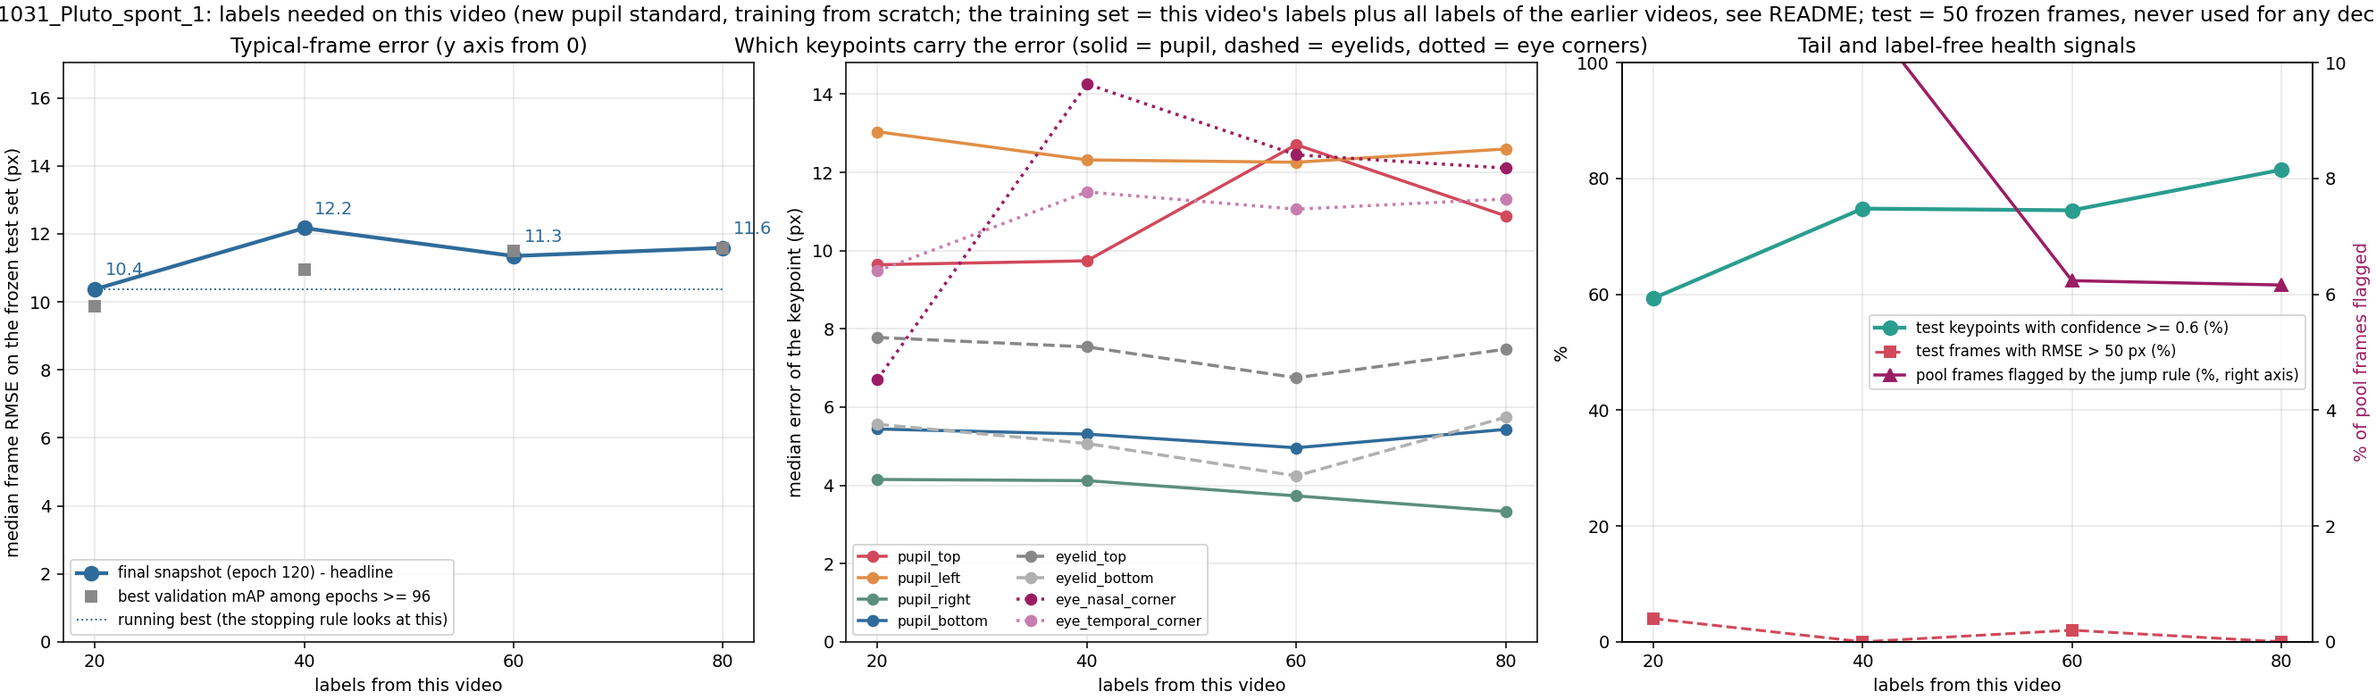
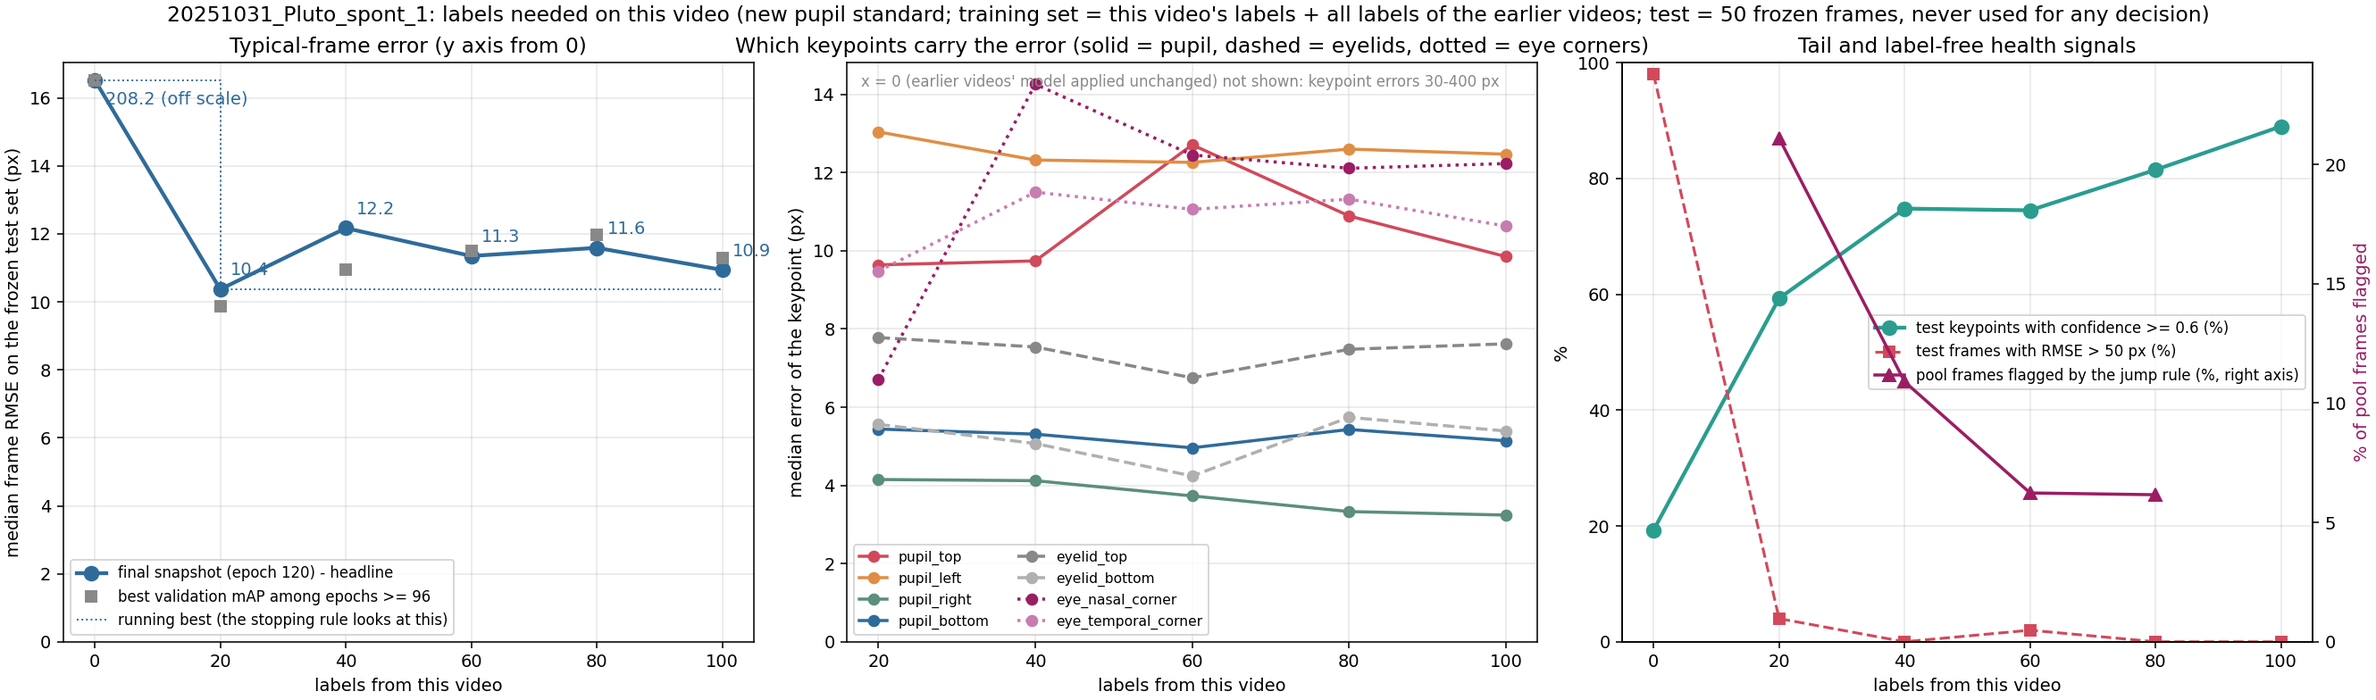
Video 2 (Pluto): full 5-point curve with the x = 0 point; secondary column recomputed on the corrected val20
Step 5 (100 Pluto labels + 100 video-1 labels, shuffle 225 after batch05 was
corrected) = 10.94 px, p90 19.3, 0% failed frames, 89% confident keypoints.
Final-snapshot series 208.2 (0 labels: video-1 model unchanged) / 10.37 /
12.17 / 11.35 / 11.59 / 10.94 px; plateau rule -> 20 labels (unchanged).

Secondary column (best validation mAP among epochs >= 96) recomputed for steps
1-5 with the corrected val20 (recompute_mAPlate.py, values in
val_mAP_by_snapshot.csv): same snapshot as before for steps 1-3 and 5; step 4
now selects epoch 100 (11.98 px instead of 11.59). Headline rows untouched.

New: score_prior_model.py (the x = 0 point); plot_scale_curve.py draws the 0
point clipped with its value, keypoint panel starts at 20 labels, right axis
of the health panel auto-scales; scale_step.evaluate clears earlier
prediction files of the same label (a re-run picked up a stale file).
Video 3 = pluton2 (second recording of mouse B) folder started.

diff --git a/new_pupil_top_video_scaling/scripts/recompute_mAPlate.py b/new_pupil_top_video_scaling/scripts/recompute_mAPlate.py
@@ -1,0 +1,84 @@
+#!/usr/bin/env python3
+"""Recompute the secondary "_mAPlate" rows of a video's scale curve after its val20 labels were corrected.
+
+    python recompute_mAPlate.py --unit 20251031_Pluto_spont_1 --prior first5minvedio:5 --steps 1:211 2:212 3:213 4:214 5:225
+
+Nothing is retrained. For every step the DeepLabCut project is staged exactly as scale_step.py staged it for that
+step (batches 01..N of this video + val20 + the earlier videos), so the merged table has the same row order as
+the shuffle's Documentation pickle; the val20 rows now carry the corrected labels. Then DeepLabCut's own
+evaluate_network scores the snapshots after the first LR drop (epochs >= MILESTONES[0]) on the validation split,
+the snapshot with the highest validation mAP is chosen and scored on the frozen test set with scale_step.evaluate
+(same metric code, label x0N0_stepNN_mAPlate). The headline "_final" rows are not touched.
+Writes <unit>/results/val_mAP_by_snapshot.csv with every validation mAP that was computed."""
+import argparse
+import pickle
+import sys
+from pathlib import Path
+
+import pandas as pd
+
+sys.path.insert(0, str(Path(__file__).resolve().parent))
+import scale_step as ss  # noqa: E402
+
+ap = argparse.ArgumentParser()
+ap.add_argument("--unit", required=True)
+ap.add_argument("--prior", nargs="*", default=[], help="earlier videos as name:last_batch (same as scale_step.py)")
+ap.add_argument("--steps", nargs="+", required=True, help="step:shuffle pairs")
+ap.add_argument("--seed", type=int, default=42)
+a = ap.parse_args()
+import deeplabcut  # noqa: E402
+from deeplabcut.generate_training_dataset.trainingsetmanipulation import merge_annotateddatasets  # noqa: E402
+
+prior = [(p.split(":")[0], int(p.split(":")[1])) for p in a.prior]
+cfg = deeplabcut.auxiliaryfunctions.read_config(str(ss.CONFIG))
+tsf = ss.PROJECT / Path(deeplabcut.auxiliaryfunctions.get_training_set_folder(cfg))
+rows = []
+for spec in a.steps:
+    step, shuffle = (int(v) for v in spec.split(":"))
+    # 1) stage the project as it was for this step, with the CURRENT (corrected) label files
+    train_names = {}
+    for u, last in prior:
+        train_names[u], _ = ss.stage(u, last, with_val=False)
+    train_names[a.unit], val_names = ss.stage(a.unit, step, with_val=True)
+    merged = merge_annotateddatasets(cfg, tsf)
+    keys = [(i[-2], i[-1]) if isinstance(i, tuple) else tuple(Path(str(i)).parts[-2:]) for i in merged.index]
+    n_train = sum(len(v) for v in train_names.values())
+    fraction = round(n_train / len(keys), 2)
+    tsi = ss.ensure_fraction(fraction)
+    pct = int(round(fraction * 100))
+    # 2) the shuffle's recorded split must point at exactly the val20 frames -> row order unchanged
+    doc = tsf / f"Documentation_data-{cfg['Task']}_{pct}shuffle{shuffle}.pickle"
+    with open(doc, "rb") as f:
+        meta = pickle.load(f)
+    val_idx = [int(i) for i in meta[2]]
+    got = sorted(keys[i][1] for i in val_idx)
+    assert got == sorted(val_names), f"step {step}: the recorded validation split does not match val20 ({got[:3]}...)"
+    assert len(meta[1]) == n_train, (len(meta[1]), n_train)
+    # 3) validation mAP of the late snapshots with the corrected labels
+    mdir = ss.PROJECT / "dlc-models-pytorch" / "iteration-0" / f"{ss.TASK}{ss.DATE}-trainset{pct}shuffle{shuffle}" / "train"
+    snaps = sorted(p.name for p in mdir.glob("snapshot-*.pt"))
+    find = lambda ep: next(k for k, n in enumerate(snaps) if n in (f"snapshot-{ep:03d}.pt", f"snapshot-best-{ep:03d}.pt"))
+    late = [e for e in range(10, ss.EPOCHS + 1, 10) if e >= ss.MILESTONES[0]
+            and any(n in (f"snapshot-{e:03d}.pt", f"snapshot-best-{e:03d}.pt") for n in snaps)]
+    names = [snaps[find(e)][:-3] for e in late]
+    deeplabcut.evaluate_network(str(ss.CONFIG), Shuffles=[shuffle], trainingsetindex=tsi, snapshots_to_evaluate=names,
+                                device="cpu", plotting=False)
+    ev = ss.PROJECT / "evaluation-results-pytorch" / "iteration-0" / f"{ss.TASK}{ss.DATE}-trainset{pct}shuffle{shuffle}"
+    # one "<scorer>_<snapshot>-results.csv" per snapshot; columns "Training epochs", "test mAP" (test = the validation split)
+    res = pd.concat([pd.read_csv(p) for p in ev.rglob("*-results.csv")], ignore_index=True)
+    res.columns = [c.strip() for c in res.columns]
+    maps = {}
+    for e, nm in zip(late, names):
+        sel = res[(res["Training epochs"] == e) & (res["Shuffle number"] == shuffle)]
+        maps[e] = float(sel["test mAP"].iloc[-1])
+        rows.append({"step": step, "shuffle": shuffle, "epoch": e, "snapshot": nm, "val_mAP_corrected_val20": maps[e],
+                     "val_rmse_px": float(sel["test rmse"].iloc[-1])})
+    best_ep = max(maps, key=maps.get)
+    ss.log(f"step {step} (shuffle {shuffle}): validation mAP with corrected val20 {maps} -> epoch {best_ep}")
+    # 4) score the selected snapshot on the frozen test set (same metric code as every other row)
+    n_new = len(train_names[a.unit])
+    ss.evaluate(a.unit, shuffle, tsi, f"x{n_new:03d}_step{step:02d}_mAPlate", n_new, find(best_ep),
+                f"best validation mAP among epochs >= {ss.MILESTONES[0]}", a.seed)
+out = ss.HERE / a.unit / "results" / "val_mAP_by_snapshot.csv"
+pd.DataFrame(rows).to_csv(out, index=False)
+ss.log(f"wrote {out}")

diff --git a/new_pupil_top_video_scaling/scripts/plot_scale_curve.py b/new_pupil_top_video_scaling/scripts/plot_scale_curve.py
@@ -21,20 +21,29 @@ late = d[d["label"].str.endswith("_mAPlate")].sort_values(x)
 BLUE, RED, GREEN, GRAY, PLUM = "#2F6B9A", "#D1495B", "#2A9D8F", "#888888", "#9B1D64"
 fig, axes = plt.subplots(1, 3, figsize=(19, 5.6), constrained_layout=True)
 ax = axes[0]
-ax.plot(head[x], head["median_frame_rmse_px"], "o-", color=BLUE, lw=2.2, ms=8, label="final snapshot (epoch 120) - headline")
-ax.plot(late[x], late["median_frame_rmse_px"], "s", color=GRAY, ms=6, label="best validation mAP among epochs >= 96")
-for _, r in head.iterrows():
-    ax.annotate(f"{r['median_frame_rmse_px']:.1f}", (r[x], r["median_frame_rmse_px"]), textcoords="offset points", xytext=(6, 8), color=BLUE)
-best = head["median_frame_rmse_px"].cummin()
+# y range from the steps that used labels of this video; the x = 0 point (earlier videos' model applied unchanged)
+# can be hundreds of px and is drawn clipped at the top with its value written next to it
+labeled = head[head[x] > 0]
+ytop = max(16, labeled["median_frame_rmse_px"].max() * 1.4)
+yv = head["median_frame_rmse_px"].clip(upper=ytop * 0.97)
+ax.plot(head[x], yv, "o-", color=BLUE, lw=2.2, ms=8, label="final snapshot (epoch 120) - headline")
+ax.plot(late[x], late["median_frame_rmse_px"].clip(upper=ytop * 0.97), "s", color=GRAY, ms=6, label="best validation mAP among epochs >= 96")
+for (_, r), v in zip(head.iterrows(), yv):
+    off = " (off scale)" if r["median_frame_rmse_px"] > ytop else ""
+    ax.annotate(f"{r['median_frame_rmse_px']:.1f}{off}", (r[x], v), textcoords="offset points", xytext=(6, 8 if not off else -14), color=BLUE)
+best = head["median_frame_rmse_px"].cummin().clip(upper=ytop * 0.97)
 ax.step(head[x], best, where="post", color=BLUE, lw=1, ls=":", label="running best (the stopping rule looks at this)")
-ax.set_ylim(0, max(16, head["median_frame_rmse_px"].max() * 1.4)); ax.set_xticks(head[x])
+ax.set_ylim(0, ytop); ax.set_xticks(head[x])
 ax.set_xlabel("labels from this video"); ax.set_ylabel("median frame RMSE on the frozen test set (px)")
 ax.set_title("Typical-frame error (y axis from 0)"); ax.grid(alpha=0.3); ax.legend(fontsize=8.5, loc="lower left")
 ax = axes[1]
 for bp, c, ls in (("pupil_top", RED, "-"), ("pupil_left", "#E08E45", "-"), ("pupil_right", "#5B8E7D", "-"), ("pupil_bottom", BLUE, "-"),
                   ("eyelid_top", GRAY, "--"), ("eyelid_bottom", "#B0B0B0", "--"), ("eye_nasal_corner", PLUM, ":"), ("eye_temporal_corner", "#C77DB0", ":")):
-    ax.plot(head[x], head[f"median_{bp}_px"], "o", ls=ls, color=c, lw=1.8, ms=6, label=bp)
-ax.set_ylim(0, None); ax.set_xticks(head[x]); ax.set_xlabel("labels from this video"); ax.set_ylabel("median error of the keypoint (px)")
+    ax.plot(labeled[x], labeled[f"median_{bp}_px"], "o", ls=ls, color=c, lw=1.8, ms=6, label=bp)
+if len(labeled) < len(head):      # the x = 0 point is left out here: 30-400 px for most keypoints, see README
+    ax.text(0.02, 0.98, "x = 0 (earlier videos' model applied unchanged) not shown: keypoint errors 30-400 px", transform=ax.transAxes,
+            va="top", fontsize=8.5, color=GRAY)
+ax.set_ylim(0, None); ax.set_xticks(labeled[x]); ax.set_xlabel("labels from this video"); ax.set_ylabel("median error of the keypoint (px)")
 ax.set_title("Which keypoints carry the error (solid = pupil, dashed = eyelids, dotted = eye corners)"); ax.grid(alpha=0.3); ax.legend(fontsize=8, ncol=2)
 ax = axes[2]
 ax.plot(head[x], head["frac_points_conf_ge_0.6"] * 100, "o-", color=GREEN, lw=2.2, ms=8, label="test keypoints with confidence >= 0.6 (%)")
@@ -44,13 +53,14 @@ jf = R / "jump_flagged.csv"
 if jf.exists():
     j = pd.read_csv(jf); ax2 = ax.twinx()
     ax2.plot(j["model_labels"], j["jump_flagged_pool_frames"] / j["pool_frames"] * 100, "^-", color=PLUM, lw=1.8, ms=7, label="pool frames flagged by the jump rule (%, right axis)")
-    ax2.set_ylim(0, 10); ax2.set_ylabel("% of pool frames flagged", color=PLUM)
+    jmax = float((j["jump_flagged_pool_frames"] / j["pool_frames"] * 100).max())
+    ax2.set_ylim(0, max(10, jmax * 1.15)); ax2.set_ylabel("% of pool frames flagged", color=PLUM)
     h1, l1 = ax.get_legend_handles_labels(); h2, l2 = ax2.get_legend_handles_labels(); ax.legend(h1 + h2, l1 + l2, fontsize=8.5, loc="center right")
 else:
     ax.legend(fontsize=8.5, loc="center right")
 ax.set_title("Tail and label-free health signals")
 n = int(d["n_test_frames"].iloc[0])
-fig.suptitle(f"{a.unit}: labels needed on this video (new pupil standard, training from scratch; the training set = this video's "
-             f"labels plus all labels of the earlier videos, see README; test = {n} frozen frames, never used for any decision)", fontsize=12)
+fig.suptitle(f"{a.unit}: labels needed on this video (new pupil standard; training set = this video's labels + all labels of the "
+             f"earlier videos; test = {n} frozen frames, never used for any decision)", fontsize=12)
 fig.savefig(R / "scale_curve.png", dpi=140)
 print(head[[x, "median_frame_rmse_px", "p90_frame_rmse_px", "frac_frames_rmse_gt_50px", "frac_points_conf_ge_0.6"]].to_string(index=False))

diff --git a/new_pupil_top_video_scaling/scripts/score_prior_model.py b/new_pupil_top_video_scaling/scripts/score_prior_model.py
@@ -1,0 +1,41 @@
+#!/usr/bin/env python3
+"""The x = 0 point of a video's scale curve: the model of the EARLIER video(s) applied unchanged to this video's
+frozen test set (no label of this video in training).
+
+    python score_prior_model.py --unit 20251031_Pluto_spont_1 --prior-unit first5minvedio --shuffle 115 --tsi 4
+
+Writes the rows x000_step00_final / x000_step00_mAPlate into <unit>/results/scale_curve.csv with the same metric
+code (scale_step.evaluate) and the same two snapshot rules as every other step: final snapshot (epoch 120) and
+the snapshot the prior video's own curve selected by validation mAP (read from its scale_curve.csv)."""
+import argparse
+import re
+import sys
+from pathlib import Path
+
+import pandas as pd
+
+sys.path.insert(0, str(Path(__file__).resolve().parent))
+import scale_step as ss  # noqa: E402
+
+ap = argparse.ArgumentParser()
+ap.add_argument("--unit", required=True)
+ap.add_argument("--prior-unit", required=True, help="the earlier video whose last model is applied")
+ap.add_argument("--shuffle", type=int, required=True, help="DLC shuffle of that model")
+ap.add_argument("--tsi", type=int, required=True, help="training-set index of that model")
+ap.add_argument("--seed", type=int, default=42)
+a = ap.parse_args()
+
+mdirs = list((ss.PROJECT / "dlc-models-pytorch" / "iteration-0").glob(f"*shuffle{a.shuffle}"))
+assert len(mdirs) == 1, mdirs
+snaps = sorted(p.name for p in (mdirs[0] / "train").glob("snapshot-*.pt"))
+find = lambda ep: next(k for k, n in enumerate(snaps) if n in (f"snapshot-{ep:03d}.pt", f"snapshot-best-{ep:03d}.pt"))
+
+prior = pd.read_csv(ss.HERE / a.prior_unit / "results" / "scale_curve.csv")
+last = prior[prior["label"].str.endswith("_mAPlate")].sort_values("training_frames_this_video").iloc[-1]
+ep_map = int(re.search(r"\((?:best-)?(\d+)\)", last["snapshot_rule"]).group(1))
+print(f"prior model: {mdirs[0].name}; final snapshot = epoch {ss.EPOCHS}; its validation-mAP-selected snapshot = epoch {ep_map}")
+
+ss.evaluate(a.unit, a.shuffle, a.tsi, "x000_step00_final", 0, find(ss.EPOCHS),
+            f"final snapshot; {a.prior_unit} model applied unchanged", a.seed)
+ss.evaluate(a.unit, a.shuffle, a.tsi, "x000_step00_mAPlate", 0, find(ep_map),
+            f"best validation mAP among epochs >= {ss.MILESTONES[0]} on {a.prior_unit}; model applied unchanged", a.seed)

diff --git a/new_pupil_top_video_scaling/scripts/scale_step.py b/new_pupil_top_video_scaling/scripts/scale_step.py
@@ -114,6 +114,8 @@ def evaluate(unit, shuffle, tsi, label, n_new, snapshot_index, rule, seed):
     gt = flat(human_table(test))
     out = HERE / unit / "training-data" / "eval" / label
     out.mkdir(parents=True, exist_ok=True)
+    for old in out.glob("image_predictions_*"):      # a re-run with another snapshot must not pick up the earlier file
+        old.unlink()
     deeplabcut.analyze_images(str(CONFIG), [str(test)], frame_type=".png", destfolder=str(out), shuffle=shuffle,
                               trainingsetindex=tsi, save_as_csv=True, plotting=False, pcutoff=0.0, device="cpu",
                               snapshot_index=snapshot_index)

diff --git a/new_pupil_top_video_scaling/20251031_Pluto_spont_1/results/README.md b/new_pupil_top_video_scaling/20251031_Pluto_spont_1/results/README.md
@@ -7,23 +7,43 @@ sha256 `5411047aae9258bd…`; frozen 2026-09-22 after a read-only check, never e
 Reference from the old label standard (not comparable in px): trained with 676 old-mouse labels, this video
 reached its plateau at about 80 labels.
 
-## Result (final snapshot = epoch 120, median frame RMSE over the 50 test frames)
+## Result (median frame RMSE over the 50 frozen test frames)
 
-| labels of this video | median | p90 | frames > 50 px | keypoints conf >= 0.6 | pool frames flagged by the jump rule |
-|---|---|---|---|---|---|
-| 20 | **10.37 px** | 21.6 | 4% | 59% | 12,060 (21%) |
-| 40 | 12.17 px | 20.3 | 0% | 75% | 6,229 (11%) |
-| 60 | 11.35 px | 19.7 | 2% | 74% | 3,564 (6%) |
-| 80 | 11.59 px | 19.8 | 0% | 82% | 3,521 (6%) |
+Headline = final snapshot (epoch 120). Secondary = the snapshot with the best validation mAP after the first
+learning-rate drop (epochs >= 96, i.e. 100/110/120); same two rules as video 1.
 
-Plateau rule fired at 60 labels: the running best (10.37 px at 20 labels) was not improved by the 40- and
-60-label steps -> **plateau = 20 labels** for this video when the 100 labels of video 1 are in the training set.
-The 1-px differences between steps are within the sampling noise of a 50-frame median; the tail (p90, failed
-frames, confidence) and the jump-flagged fraction kept improving up to 60-80 labels.
+| labels of this video | final snapshot | best-val-mAP snapshot | p90 (final) | frames > 50 px | keypoints conf >= 0.6 | pool frames flagged by the jump rule |
+|---|---|---|---|---|---|---|
+| 0 (video-1 model applied unchanged) | 208.2 px | 225.8 px (ep. 100) | 258 | 98% | 19% | – |
+| 20 | **10.37 px** | 9.86 (ep. 110) | 21.6 | 4% | 59% | 12,060 (21%) |
+| 40 | 12.17 px | 10.96 (ep. 110) | 20.3 | 0% | 75% | 6,229 (11%) |
+| 60 | 11.35 px | 11.50 (ep. 100) | 19.7 | 2% | 74% | 3,564 (6%) |
+| 80 | 11.59 px | 11.98 (ep. 100) | 19.8 | 0% | 82% | 3,521 (6%) |
+| 100 | 10.94 px | 11.29 (ep. 110) | 19.3 | 0% | 89% | (predicting, batch 06 being selected) |
 
-Per keypoint (median error, px): pupil_left stays the worst pupil point (13.0 -> 12.6), pupil_right the best
-(4.2 -> 3.3); the two eye corners are 7-14 px, eyelid_top ~7.5, eyelid_bottom ~5.
+Plateau rule (running best of the final-snapshot series, two consecutive steps with <= 3% improvement) fired at
+60 labels: the running best (10.37 px at 20 labels) was not improved by the 40- and 60-label steps ->
+**plateau = 20 labels** for this video when the 100 labels of video 1 are in the training set. The 1-px
+differences between 20 and 100 labels are within the sampling noise of a 50-frame median; the tail (p90,
+failed frames, confidence) and the jump-flagged fraction kept improving up to 100 labels, which is why the
+user chose to keep selecting correction batches beyond the plateau.
 
-Files: `scale_curve.csv/png`, `jump_flagged.csv`, `selection_040/060/080/100_frames.png` (how each batch was
-chosen: jump rule on the previous model's whole-video prediction, then k-means among the flagged frames).
-Batch 05 (for 100 labels) is selected but not trained.
+The x = 0 point: the video-1 model (100 labels, shuffle 115) applied to this mouse without any label of this
+video is unusable (98% of the test frames fail). Caveat: the pre-labels of test50 came from that same model,
+and where the labeler judged a pre-label correct it was left untouched, so for pupil_bottom / pupil_right /
+eyelid_bottom the x = 0 error is exactly 0 on many frames. Pre-label-assisted labeling anchors the test labels
+to the pre-labeling model wherever the labeler agreed with it; this holds for every step's score.
+
+Per keypoint (median error, px, final snapshot): pupil_left stays the worst pupil point (13.0 -> 12.4),
+pupil_right the best (4.2 -> 3.3); the two eye corners 7-14 px, eyelid_top ~7.5, eyelid_bottom ~5.
+
+Validation-set note: during training of steps 1-5 the val20 file still contained one or two unmoved pre-label
+points (fixed 2026-09-22, only labels of val20 changed). The validation split never enters training; it only
+drives the secondary column, which was therefore recomputed with the corrected val20
+(`scripts/recompute_mAPlate.py`, per-snapshot values in `val_mAP_by_snapshot.csv`). The headline rows are
+unaffected. Step 5 was trained twice: the first run (shuffle 215) was stopped at epoch ~45 when one unmoved
+pre-label point was found in batch05; the corrected batch05 was trained as shuffle 225.
+
+Files: `scale_curve.csv/png`, `val_mAP_by_snapshot.csv`, `jump_flagged.csv`, `selection_040/060/080/100_frames.png`
+(how each batch was chosen: jump rule on the previous model's whole-video prediction, then k-means among the
+flagged frames).

diff --git a/new_pupil_top_video_scaling/results/README.md b/new_pupil_top_video_scaling/results/README.md
@@ -7,15 +7,20 @@ Plateau rule (same for every video): running best of the final-snapshot series (
 video's 50 frozen test frames); the plateau is reached when two consecutive 20-label steps each improve the
 running best by <= 3%. The plateau point is the last step that still improved it.
 
-| video | mouse / length | labels of earlier videos in the training set | final-snapshot series (px, 20/40/60/80/100 labels) | plateau | error at plateau |
+Snapshot rules (fixed, same for every video): headline = final snapshot (epoch 120); secondary column = the
+snapshot with the best validation mAP after the first learning-rate drop (epochs >= 96 in the 120-epoch recipe).
+
+| video | mouse / length | labels of earlier videos in the training set | final-snapshot series (px, 0/20/40/60/80/100 labels) | plateau | error at plateau |
 |---|---|---|---|---|---|
-| 1 `first5minvedio` | mouse A, 5.0 min | 0 | 12.93 / 13.00 / 12.04 / 13.07 / 12.29 | **60 labels** | 12.04 px |
-| 2 `20251031_Pluto_spont_1` | mouse B, 19.9 min | 100 (all of video 1) | 10.37 / 12.17 / 11.35 / 11.59 / – | **20 labels** | 10.37 px |
+| 1 `first5minvedio` | mouse A, 5.0 min | 0 | – / 12.93 / 13.00 / 12.04 / 13.07 / 12.29 | **60 labels** | 12.04 px |
+| 2 `20251031_Pluto_spont_1` | mouse B, 19.9 min | 100 (all of video 1) | 208.2 / 10.37 / 12.17 / 11.35 / 11.59 / 10.94 | **20 labels** | 10.37 px |
+| 3 `pluton2` | mouse B, 19.9 min (2nd recording) | 200 (videos 1 + 2) | in progress | | |
 
 Notes
 - With 50 test frames the median moves by about 1 px between neighbouring steps from sampling alone, so the
   3% rule is at the noise floor; differences of 1 px between steps of the same video are not meaningful.
 - Video 2, label-free signals kept improving after the median flattened: pool frames flagged by the jump rule
-  21% -> 11% -> 6% -> 6% (steps 1-4), test keypoints with confidence >= 0.6: 59% -> 75% -> 74% -> 82%.
-- Video 2, step 5 (100 labels) was selected (`selection_100_frames.png`) but not trained; whether to run it for
-  a full 5-point curve like video 1 is an open decision.
+  21% -> 11% -> 6% -> 6% (steps 1-4), test keypoints with confidence >= 0.6: 59% -> 75% -> 74% -> 82% -> 89%.
+  The user therefore chose to keep selecting correction batches for video 2 beyond the plateau (batch 06).
+- The 0-label point of a video = the earlier videos' model applied unchanged (`scripts/score_prior_model.py`);
+  video 1 has no earlier model, so no 0 point.

diff --git a/new_pupil_top_video_scaling/README.md b/new_pupil_top_video_scaling/README.md
@@ -9,6 +9,13 @@ Fixed choices carried over from the earlier work: ResNet-50, batch 2, from scrat
 k-means (DoG fingerprints) for the first batch, jump rule + k-means for later batches, median per-frame RMSE over
 the 8 keypoints on a frozen test set.
 
+Snapshot rules, fixed for every video (confirmed 2026-09-22): the headline number of a step is the FINAL snapshot
+(epoch 120); the secondary column is the snapshot with the best validation mAP after the first learning-rate drop
+(epochs >= 96, i.e. 100/110/120). The validation split never enters training; if its labels are corrected later,
+only the secondary column is recomputed (`scripts/recompute_mAPlate.py`), nothing is retrained.
+From the second video on, the curve starts at x = 0: the earlier videos' model applied unchanged
+(`scripts/score_prior_model.py`). Each later video is trained with ALL labels of the earlier videos plus its own.
+
 ```
 scripts/                 shared tools (select_frames.py, make_prelabels.py, label_set.sh, ...)
 results/                 ACROSS videos: x = number of videos, y = labels needed to reach the plateau

diff --git a/new_pupil_top_video_scaling/pluton2/results/README.md b/new_pupil_top_video_scaling/pluton2/results/README.md
@@ -1,0 +1,10 @@
+# Video 3: pluton2 (19.9 min, second recording of the mouse of video 2)
+
+Scale curve within this video under the new pupil standard. Training = ALL 100 labels of video 1
+(`first5minvedio`) + ALL 100 labels of video 2 (`20251031_Pluto_spont_1`) + N labels of this video, from
+scratch; validation = this video's val20; test = this video's 50 frozen test frames. The x = 0 point is the
+video-2 step-5 model (shuffle 225) applied unchanged.
+
+Frame extraction (2026-09-22): test50 / val20 / batch01 by the same model-free protocol as videos 1 and 2
+(k-means on appearance fingerprints, medoid per cluster). Pre-labels for the labeler come from the video-2
+step-5 model; they only save dragging time and do not influence which frames were chosen.
